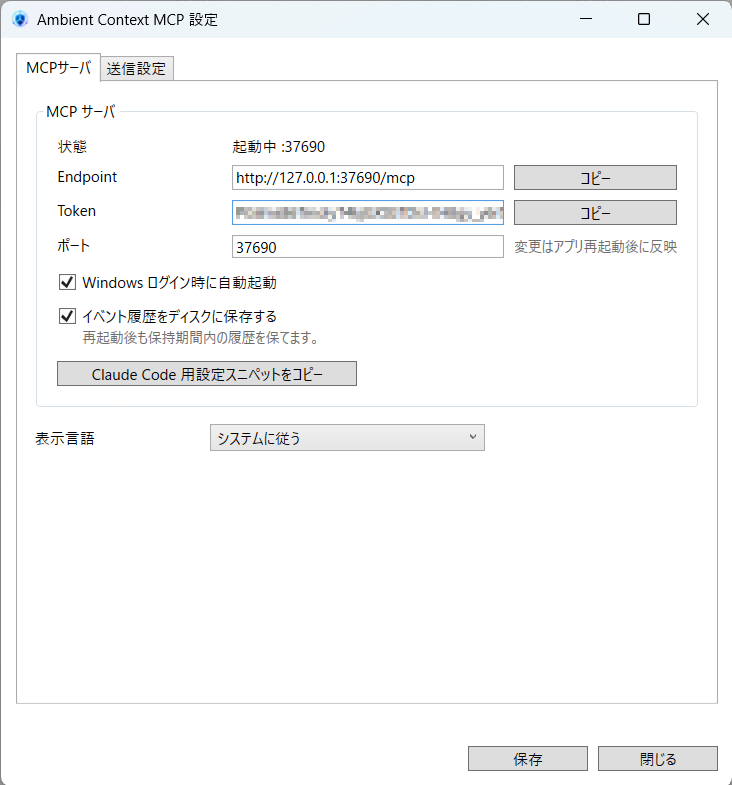
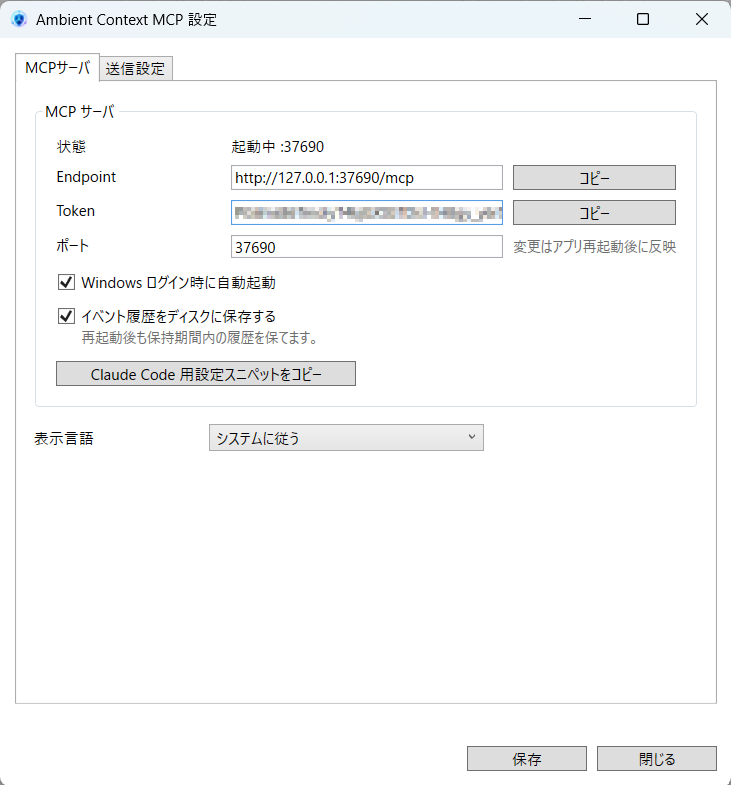
docs: screenshot1.png を差し替え、README の表示幅を 45% に調整

diff --git a/README.md b/README.md
@@ -11,8 +11,8 @@
 Windows のローカル ambient context (在席状態、フォアグラウンドアプリ種別、バッテリ、電源イベント、システム負荷、長時間作業の検知など) を、プライバシー分類された MCP ツールとして任意の AI クライアント (Claude Code、Claude Desktop 等) に公開するトレイ常駐プロセスです。
 
 <p align="center">
-  <img src="screenshot1.png" alt="MCP サーバ設定タブ" width="380" />
-  <img src="screenshot2.png" alt="送信設定タブ" width="380" />
+  <img src="screenshot1.png" alt="MCP サーバ設定タブ" width="45%" />
+  <img src="screenshot2.png" alt="送信設定タブ" width="45%" />
 </p>
 
 ## 特徴
